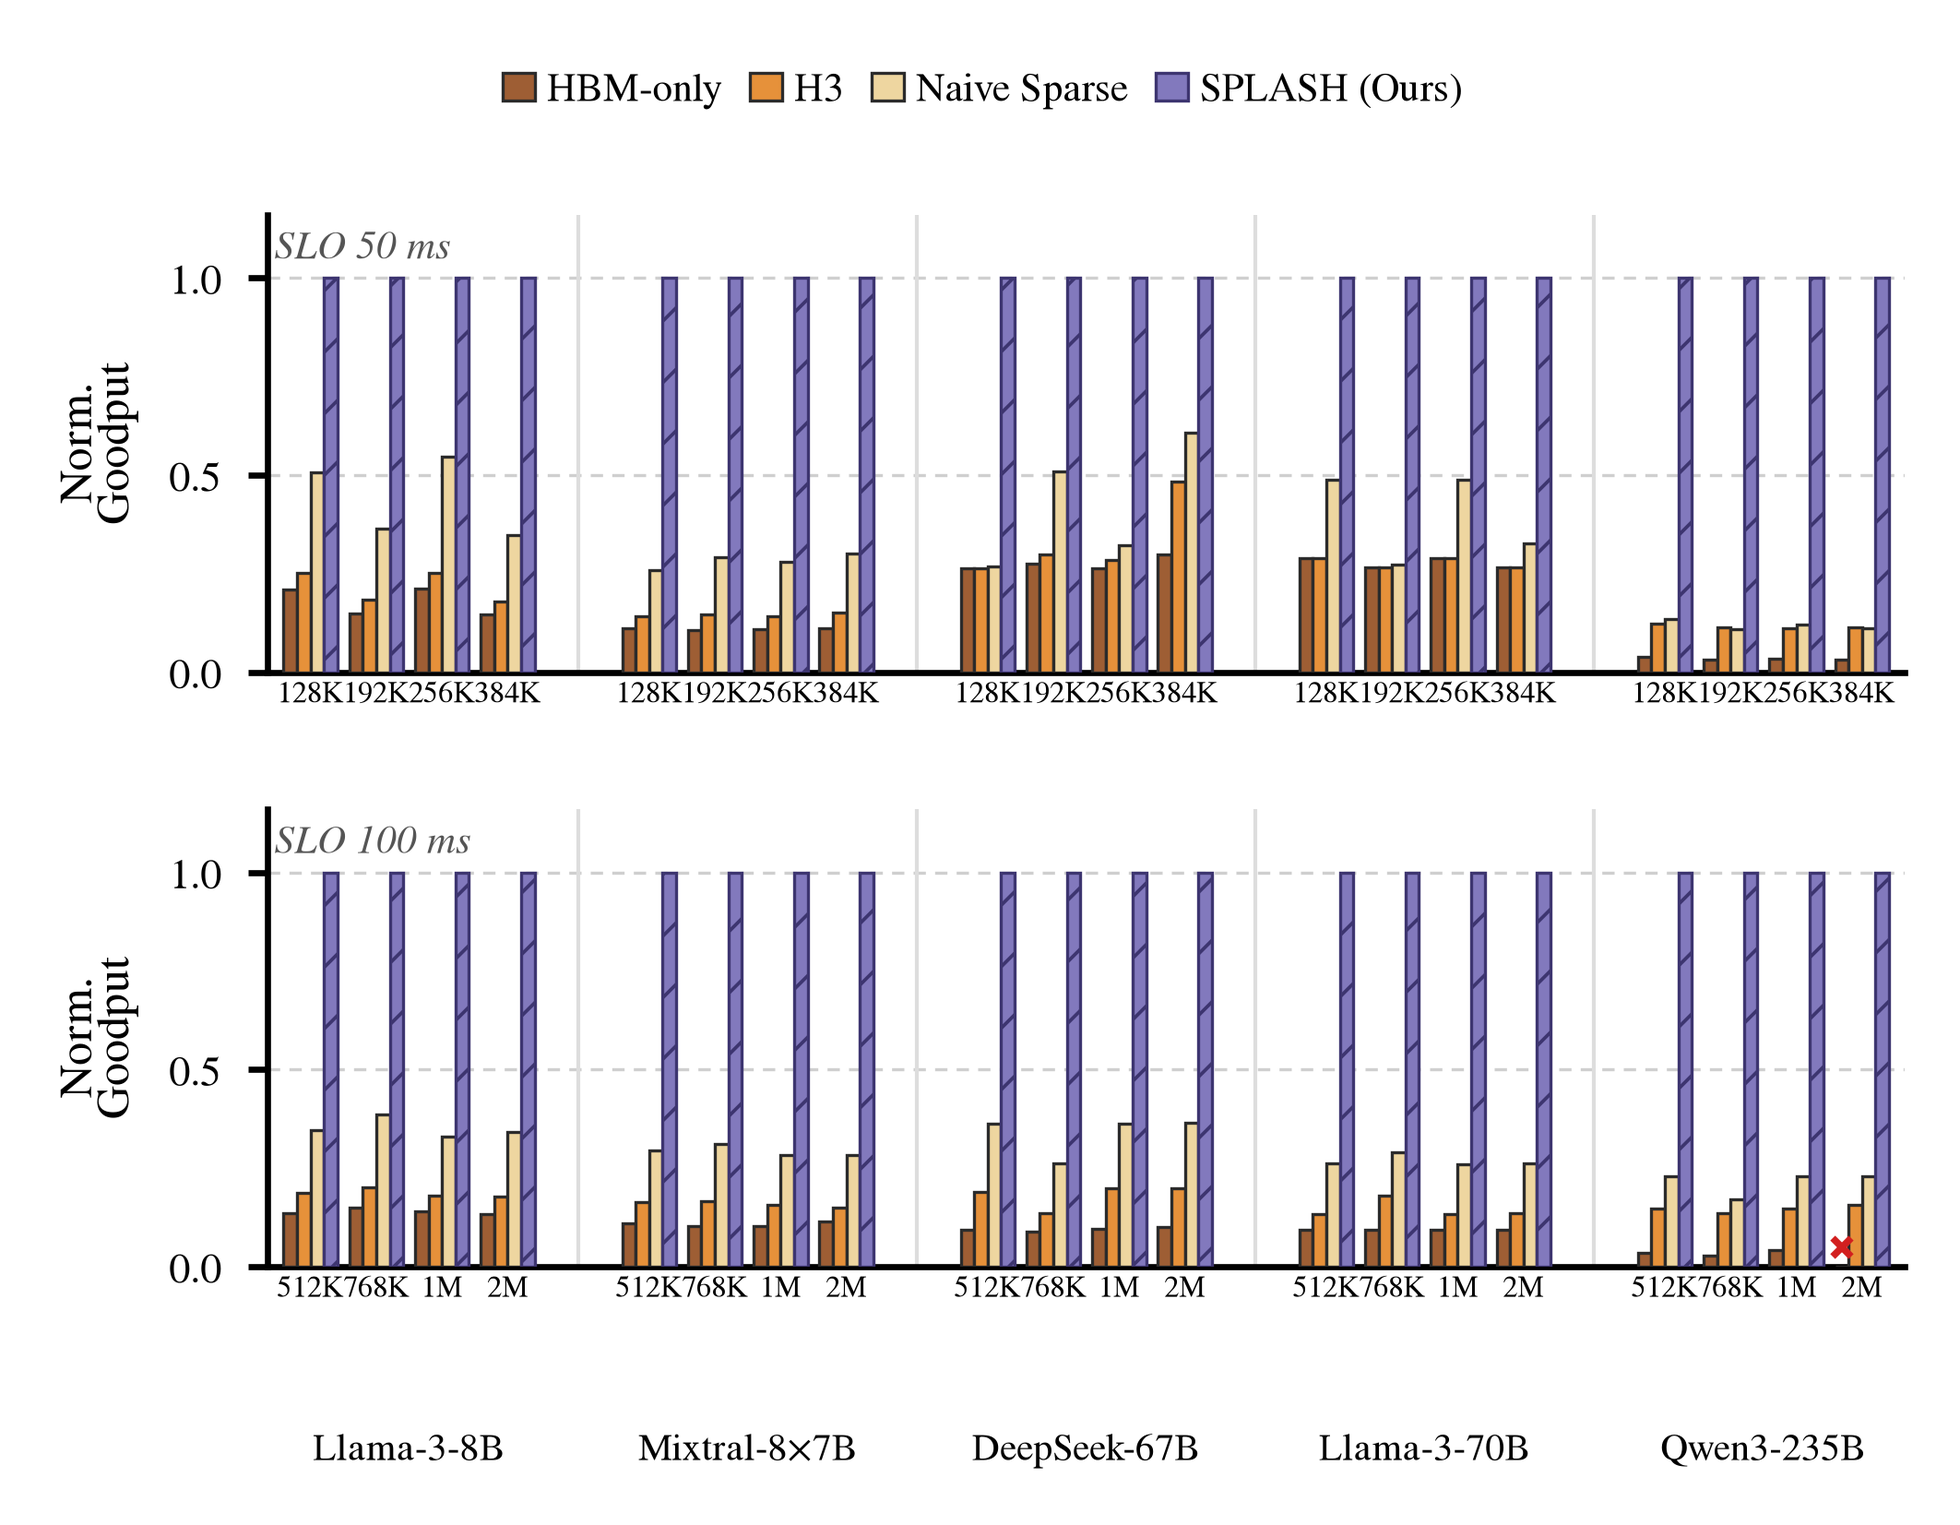
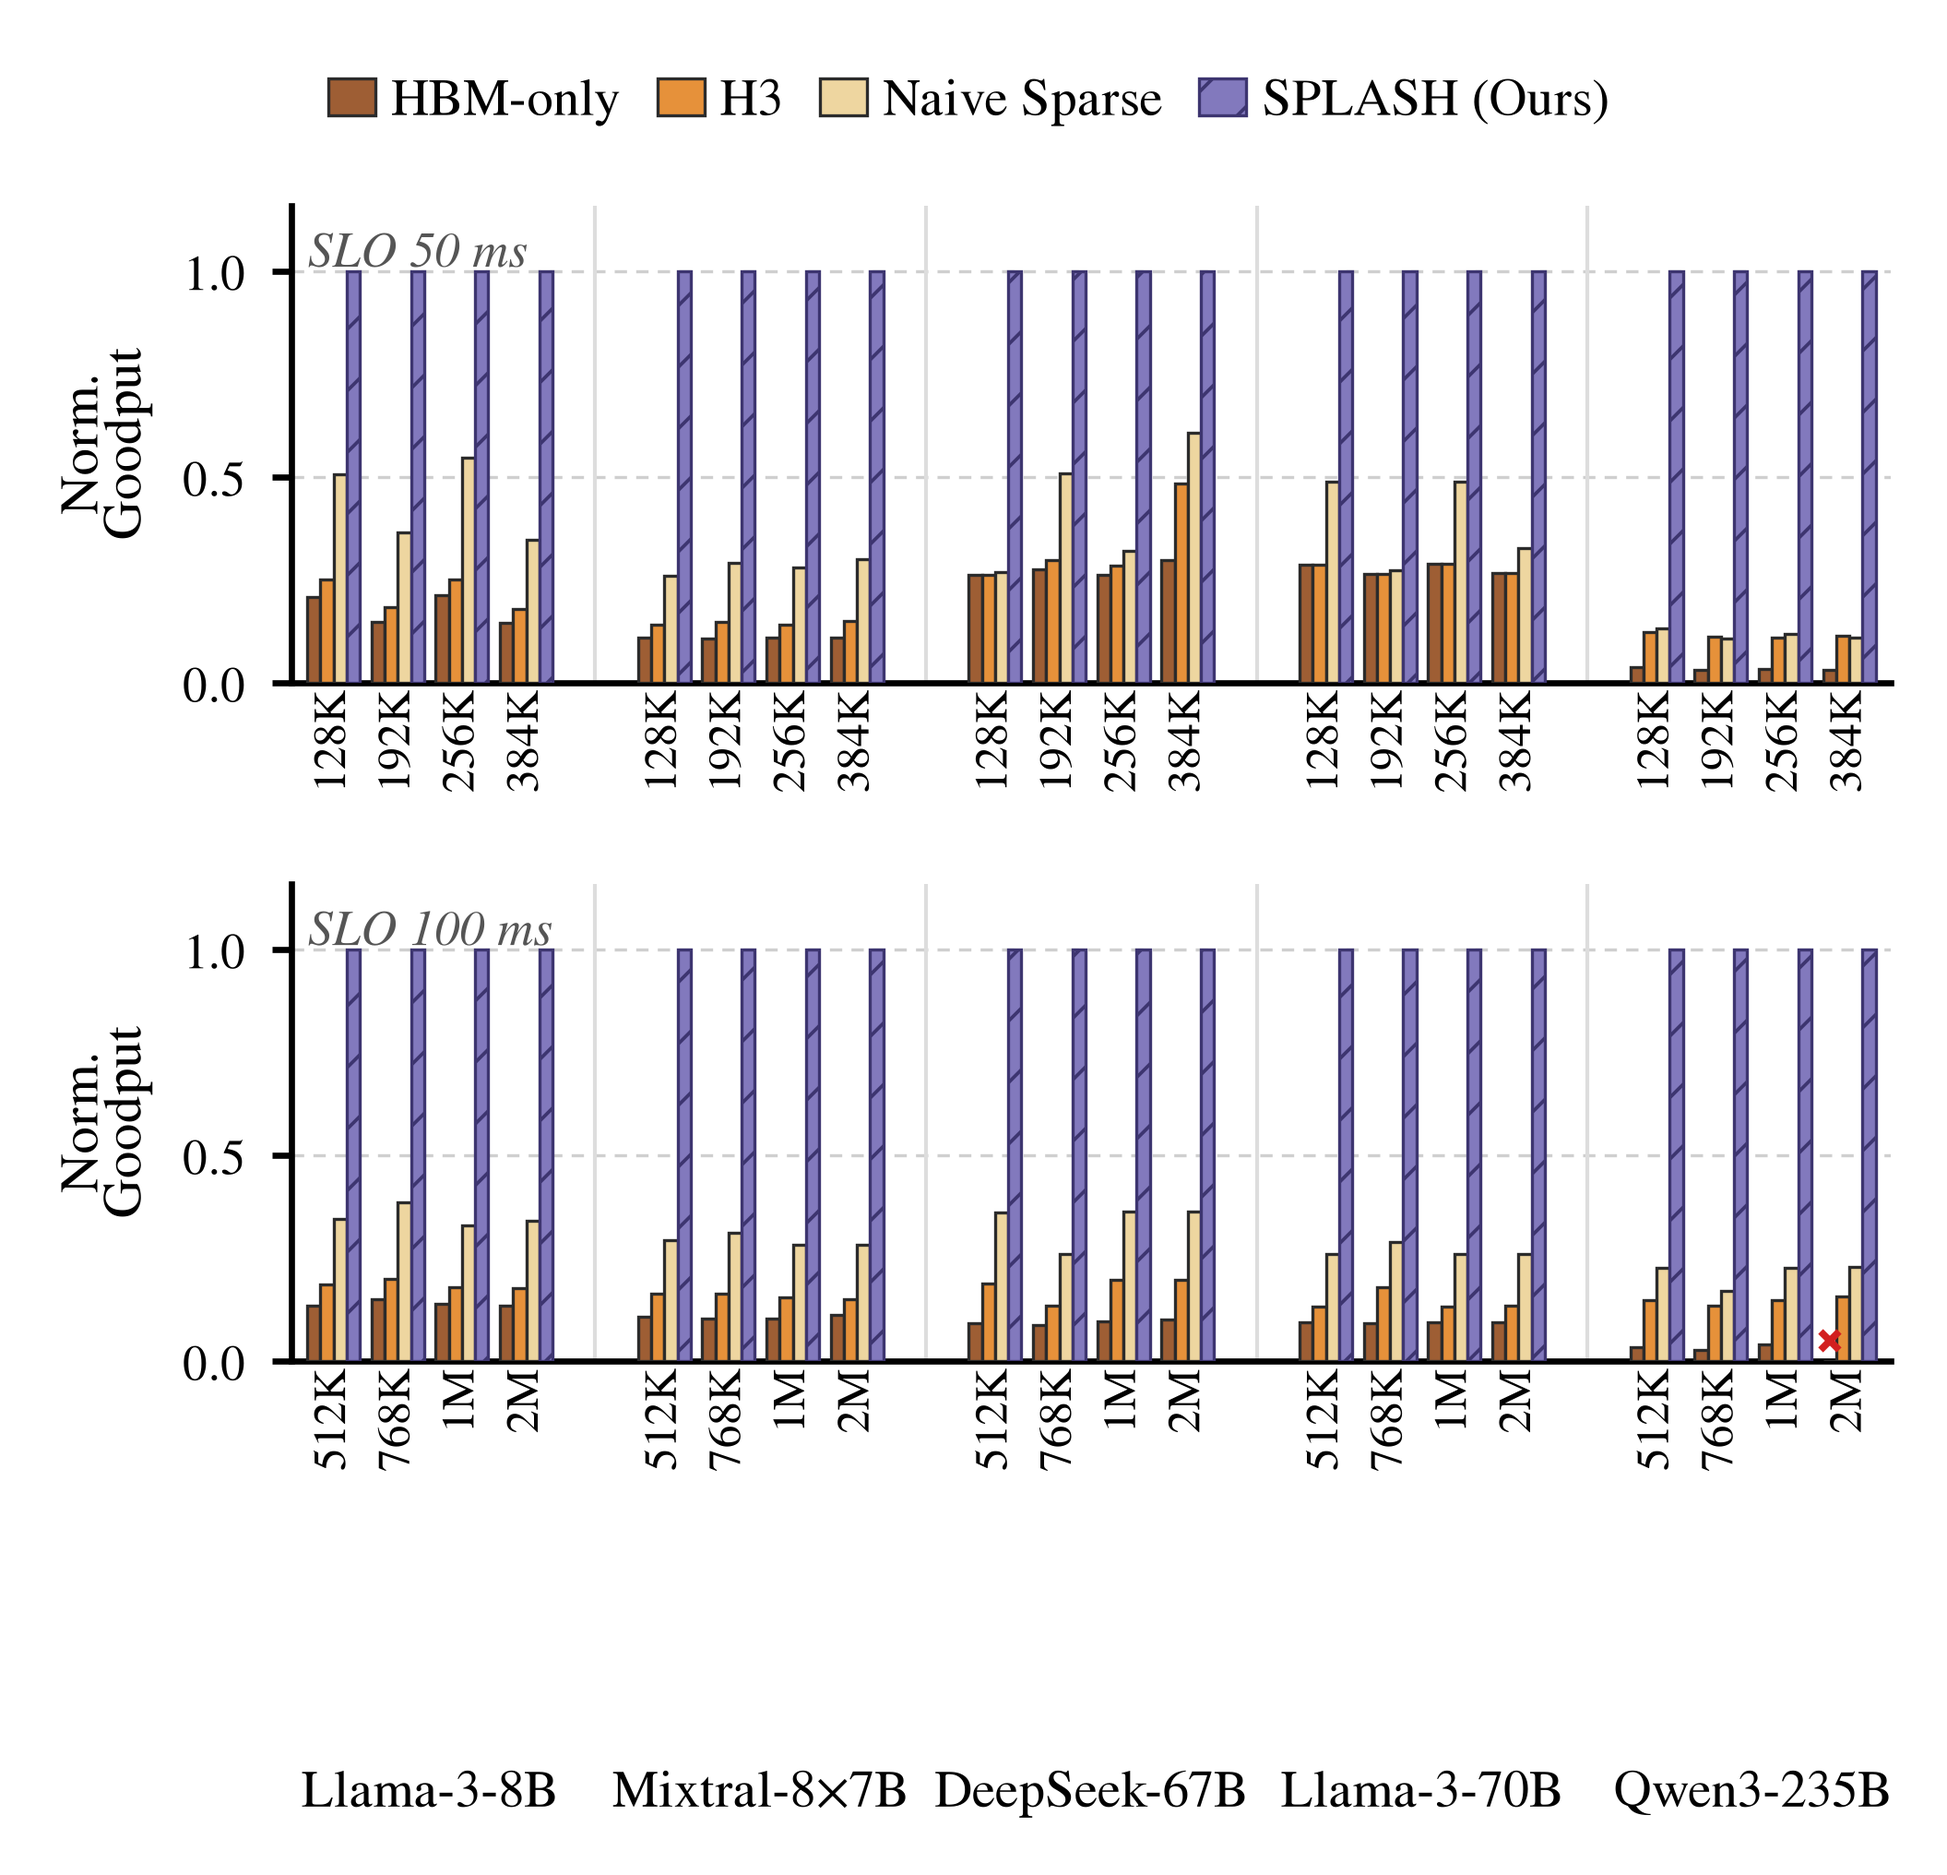
Legible fonts on combined result figures (6-7pt, rotated context labels)

diff --git a/make_result_tpot.py b/make_result_tpot.py
@@ -119,7 +119,7 @@ def render(pi, plabel, fname):
 def render_combined(fname):
     """p50 (top) + p99 (bottom) sharing ONE legend and ONE x-axis. Single column."""
     bw = 0.235; YMAX = 400
-    fig, axes = plt.subplots(2, 1, figsize=(3.4, 2.35), sharex=True)
+    fig, axes = plt.subplots(2, 1, figsize=(3.4, 2.75), sharex=True)
     for ax, pi, plabel in ((axes[0], 0, "p50"), (axes[1], 1, "p99")):
         for i, (sk, _) in enumerate(SYS):
             xs = centers + (i - 1) * bw
@@ -130,8 +130,8 @@ def render_combined(fname):
                 ax.bar(xx, min(v[pi], YMAX), bw, color=COL[sk], edgecolor=EDGE[sk],
                        linewidth=0.4, hatch=HATCH.get(sk), zorder=3)
         ax.axhline(SLO, ls=(0, (4, 2)), lw=0.8, color="#d21f1f", zorder=4)
-        ax.set_ylim(0, YMAX); ax.set_yticks([0, 200, 400]); ax.tick_params(labelsize=5.5)
-        ax.set_ylabel(f"{plabel} TPOT\n(ms)", fontsize=6.0, linespacing=0.9)
+        ax.set_ylim(0, YMAX); ax.set_yticks([0, 200, 400]); ax.tick_params(labelsize=6.5)
+        ax.set_ylabel(f"{plabel} TPOT\n(ms)", fontsize=7.0, linespacing=0.9)
         ax.grid(True, axis="y", ls=(0, (4, 3)), lw=0.4, color="#cfcfcf", zorder=0)
         ax.set_axisbelow(True)
         ax.set_xlim(centers[0] - 0.65, centers[-1] + 0.65)
@@ -140,19 +140,19 @@ def render_combined(fname):
             ax.axvline((centers[m * NC - 1] + centers[m * NC]) / 2, color="#dddddd",
                        lw=0.5, zorder=1)
     axes[1].set_xticks(centers)
-    axes[1].set_xticklabels([w["ctx"] for w in work], fontsize=3.9)
+    axes[1].set_xticklabels([w["ctx"] for w in work], fontsize=6.0, rotation=90)
     axes[1].tick_params(axis="x", pad=1.0)
     for m, (_, name) in enumerate(MODELS):
         xc = (centers[m * NC] + centers[m * NC + NC - 1]) / 2
-        axes[1].text(xc, -0.30, name, ha="center", va="top", fontsize=5.0,
-                     transform=axes[1].get_xaxis_transform())
+        axes[1].text(xc, -0.62, name, ha="center", va="top", fontsize=6.8,
+                     transform=axes[1].get_xaxis_transform())  # model
     handles = [plt.Rectangle((0, 0), 1, 1, fc=COL[s], ec=EDGE[s], lw=0.4,
                              hatch=HATCH.get(s)) for s, _ in SYS]
     handles.append(plt.Line2D([], [], ls=(0, (4, 2)), color="#d21f1f", lw=0.8))
     fig.legend(handles, [d for _, d in SYS] + ["SLO 100 ms"], loc="upper center",
-               bbox_to_anchor=(0.5, 1.03), ncol=4, frameon=False, fontsize=5.4,
+               bbox_to_anchor=(0.5, 1.03), ncol=4, frameon=False, fontsize=6.8,
                handlelength=0.9, handletextpad=0.3, columnspacing=0.8)
-    fig.subplots_adjust(left=0.125, right=0.99, top=0.9, bottom=0.14, hspace=0.12)
+    fig.subplots_adjust(left=0.14, right=0.99, top=0.9, bottom=0.2, hspace=0.14)
     for e in ("png", "pdf"):
         fig.savefig(f"results/plots/{fname}.{e}", bbox_inches="tight")
     plt.close(fig)

diff --git a/make_result_throughput.py b/make_result_throughput.py
@@ -124,7 +124,7 @@ def render_combined(fname):
         x += 1.15
     cen = np.array(cen)
     bw = 0.205
-    fig, axes = plt.subplots(2, 1, figsize=(3.4, 2.5))
+    fig, axes = plt.subplots(2, 1, figsize=(3.4, 2.9))
     for ax, work, slo in ((axes[0], work50, 50), (axes[1], work100, 100)):
         for i, (_, s) in enumerate(SYS):
             xs = cen + (i - 1.5) * bw
@@ -134,26 +134,26 @@ def render_combined(fname):
             for w, xx in zip(work, xs):
                 if w["vals"][s] is None:
                     ax.plot(xx, 0.05, marker="x", color="#d21f1f", ms=2.5, mew=0.9, zorder=6)
-        ax.set_ylim(0, 1.16); ax.set_yticks([0, 0.5, 1.0]); ax.tick_params(labelsize=5.5)
-        ax.set_ylabel("Norm.\nGoodput", fontsize=6.0, linespacing=0.9)
+        ax.set_ylim(0, 1.16); ax.set_yticks([0, 0.5, 1.0]); ax.tick_params(labelsize=6.5)
+        ax.set_ylabel("Norm.\nGoodput", fontsize=7.0, linespacing=0.9)
         ax.grid(True, axis="y", ls=(0, (4, 3)), lw=0.4, color="#cfcfcf", zorder=0)
         ax.set_axisbelow(True); ax.set_xlim(cen[0] - 0.65, cen[-1] + 0.65)
         for sp in ("top", "right"): ax.spines[sp].set_visible(False)
         for m in range(1, len(MODELS)):
             ax.axvline((cen[m * NCc - 1] + cen[m * NCc]) / 2, color="#dddddd", lw=0.5, zorder=1)
-        ax.set_xticks(cen); ax.set_xticklabels([w["ctx"] for w in work], fontsize=3.9)
+        ax.set_xticks(cen); ax.set_xticklabels([w["ctx"] for w in work], fontsize=6.0, rotation=90)
         ax.tick_params(axis="x", pad=1.0)
-        ax.text(0.004, 0.97, f"SLO {slo} ms", transform=ax.transAxes, fontsize=5.2,
+        ax.text(0.01, 0.95, f"SLO {slo} ms", transform=ax.transAxes, fontsize=6.5,
                 style="italic", color="#555", ha="left", va="top")
     for m, (_, name) in enumerate(MODELS):
         xc = (cen[m * NCc] + cen[m * NCc + NCc - 1]) / 2
-        axes[1].text(xc, -0.36, name, ha="center", va="top", fontsize=5.0,
+        axes[1].text(xc, -0.85, name, ha="center", va="top", fontsize=6.8,
                      transform=axes[1].get_xaxis_transform())
     h, l = axes[0].get_legend_handles_labels()
     fig.legend(h, l, loc="upper center", bbox_to_anchor=(0.5, 1.03), ncol=4,
-               frameon=False, fontsize=5.2, handlelength=0.8, handletextpad=0.3,
+               frameon=False, fontsize=6.8, handlelength=0.9, handletextpad=0.3,
                columnspacing=0.7)
-    fig.subplots_adjust(left=0.12, right=0.99, top=0.9, bottom=0.14, hspace=0.3)
+    fig.subplots_adjust(left=0.14, right=0.99, top=0.92, bottom=0.2, hspace=0.42)
     for e in ("png", "pdf"):
         fig.savefig(f"results/plots/{fname}.{e}", bbox_inches="tight")
     plt.close(fig)
